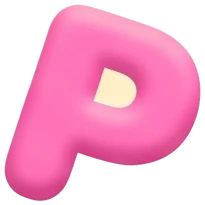
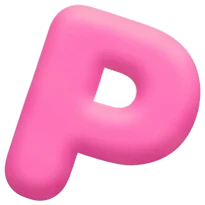
Title letters: cut the A / P counters — the holes kept the mockup's background (cream / sky) and showed over other colours

Changed region(s): [[0.439, 0.322, 0.6732, 0.5268]]

diff --git a/tools/letter_counters.py b/tools/letter_counters.py
@@ -1,0 +1,122 @@
+"""Cut the counters (the enclosed holes of A and P) out of the title letters (user: "인트로에 움직이는 알파벳에 누끼 제대로
+안따져서 배경 컬러 달라지면 표시나. p와 a 알파벳"): the cut left the holes opaque, filled with the mockup's background
+(cream in the P's, sky blue in the A), which showed as soon as a letter flew over another colour.
+
+Per letter: seed = the largest pale component (far from the letter's own colour) that never reaches the sprite's
+transparent outside; hole H = every pixel connected to it that is nearer the hole colour than the letter's. Deep inside
+H → transparent; on its ±1-2 px edge the alpha comes from projecting the pixel onto (nearest letter colour − hole
+colour), and the colour becomes that letter colour (decontaminated). Everything else is left exactly as it was.
+
+  uv run --with pillow --with numpy --with scipy python tools/letter_counters.py           # fix public/art in place
+  uv run --with pillow --with numpy --with scipy python tools/letter_counters.py --sheet x.png --dry   # preview only
+The untouched sprites are kept in design/work/orig/ (copied there on the first run) and are always the input, so a
+re-run never cuts twice. build_art.py's title_pieces() calls fix() on freshly cut letters too."""
+import shutil
+import sys
+from pathlib import Path
+
+import numpy as np
+from PIL import Image
+from scipy import ndimage as ndi
+
+sys.path.insert(0, str(Path(__file__).resolve().parent))
+from matte import bleed, dil, ero  # noqa: E402
+
+ROOT = Path(__file__).resolve().parent.parent
+OUT = ROOT / 'public' / 'art'
+ORIG = ROOT / 'design' / 'work' / 'orig'
+NAMES = ['l_a_blue', 'l_p_top', 'l_p_bot']          # the title letters with a counter (M and T have none)
+
+
+def fix(rgba: np.ndarray, log=print):
+    """rgba uint8 H×W×4 → (fixed rgba uint8, info)"""
+    C = rgba[..., :3].astype(np.float32); a = rgba[..., 3].astype(np.float32) / 255
+    mx, mn = C.max(-1), C.min(-1)
+    sat = (mx - mn) / np.maximum(mx, 1)
+    opaque = a > 0.98
+    outside = ndi.binary_dilation(a < 0.5, iterations=3)            # the transparent surround (+3 px)
+    body = np.logical_and(opaque, ~outside)
+    L = np.median(C[np.logical_and(body, sat > np.percentile(sat[body], 40))], 0)   # the letter's own colour
+    # pale candidates: far from the letter colour
+    dL = np.linalg.norm(C - L, axis=-1)
+    pale = np.logical_and(body, dL > 0.55 * np.percentile(dL[body], 99))
+    lab, k = ndi.label(pale)
+    if not k:
+        return rgba, {'hole': 0}
+    sizes = ndi.sum(pale, lab, range(1, k + 1))
+    seed_id = int(np.argmax(sizes)) + 1
+    seed = lab == seed_id
+    core = ero(seed, 2) if ero(seed, 2).sum() > 20 else seed
+    B = np.median(C[core], 0)                                         # the hole's colour
+    LB = L - B
+    # grow: connected pixels nearer the hole colour than the letter's
+    t_glob = ((C - B) @ LB) / float(LB @ LB)
+    cand = np.logical_and(a > 0.5, t_glob < 0.5)
+    lab2, _ = ndi.label(cand)
+    ids = np.unique(lab2[seed]); ids = ids[ids > 0]
+    H = np.isin(lab2, ids)
+    if np.logical_and(H, outside).any():
+        log('  hole touches the outside — skipped'); return rgba, {'hole': 0}
+    band = np.logical_and(dil(H, 2), ~ero(H, 1))
+    pure = np.logical_and(opaque, ~dil(H, 2))
+    _, (iy, ix) = ndi.distance_transform_edt(~pure, return_indices=True)
+    F = C[iy, ix]                                                     # nearest pure letter colour
+    FB = F - B
+    t = np.clip(((C - B) * FB).sum(-1) / np.maximum((FB * FB).sum(-1), 1e-3), 0, 1)
+    k_ = np.ones_like(a)
+    k_[band] = t[band]
+    k_[ero(H, 1)] = 0
+    a2 = a * k_
+    C2 = C.copy()
+    C2[band] = F[band]
+    C2 = bleed(C2, a2)
+    out = np.dstack([np.clip(C2, 0, 255), np.clip(a2 * 255, 0, 255)]).astype(np.uint8)
+    info = {'hole': int(H.sum()), 'band': int(band.sum()), 'B': [round(float(v)) for v in B], 'L': [round(float(v)) for v in L],
+            'seed': int(seed.sum()), 'components': k}
+    return out, info
+
+
+def fix_file(n, fresh=False, write=True):
+    """public/art/<n>.webp from its untouched copy in design/work/orig/. fresh=True (build_art.py just cut the letter):
+    the new cut becomes that copy first."""
+    ORIG.mkdir(parents=True, exist_ok=True)
+    src = ORIG / f'{n}.webp'
+    if fresh or not src.exists():
+        shutil.copy2(OUT / f'{n}.webp', src)
+    rgba = np.asarray(Image.open(src).convert('RGBA'))
+    fixed, info = fix(rgba)
+    print(n, 'counter cut', info, flush=True)
+    if write and info['hole']:
+        Image.fromarray(fixed, 'RGBA').save(OUT / f'{n}.webp', 'WEBP', quality=90, alpha_quality=100, method=6, exact=True)
+    return rgba, fixed, info
+
+
+def main():
+    dry = '--dry' in sys.argv
+    sheet_path = sys.argv[sys.argv.index('--sheet') + 1] if '--sheet' in sys.argv else None
+    pairs = []
+    for n in NAMES:
+        rgba, fixed, _ = fix_file(n, write=not dry)
+        pairs.append((n, rgba, fixed))
+    if sheet_path:
+        from PIL import ImageDraw
+        Hh = 240; cells = []
+        for n, before, after in pairs:
+            row = []
+            for im in (before, after):
+                for bg in ((255, 0, 255), (30, 30, 80), (120, 200, 120)):
+                    c = Image.new('RGBA', (im.shape[1], im.shape[0]), bg + (255,)); c.alpha_composite(Image.fromarray(im, 'RGBA'))
+                    row.append(c.convert('RGB').resize((round(im.shape[1] * Hh / im.shape[0]), Hh)))
+            cells.append((n, row))
+        W = max(sum(c.width + 6 for c in r) for _, r in cells) + 30
+        sh = Image.new('RGB', (W, len(cells) * (Hh + 30) + 10), 'white'); d = ImageDraw.Draw(sh)
+        for k, (n, r) in enumerate(cells):
+            x = 0; d.text((4, k * (Hh + 30) + 4), f'{n}: before (3) | after (3)', fill='black')
+            for j, c in enumerate(r):
+                if j == 3: x += 24
+                sh.paste(c, (x, k * (Hh + 30) + 22)); x += c.width + 6
+        sh.save(sheet_path); print(sheet_path)
+
+
+if __name__ == '__main__':
+    main()

diff --git a/tools/build_art.py b/tools/build_art.py
@@ -11,6 +11,7 @@ sys.path.insert(0, str(pathlib.Path(__file__).resolve().parent))
 from art_boxes import BOXES  # noqa: E402
 from matte import bleed, clean, dil, ero, gblur, refine, smoothstep, trim_box  # noqa: E402
 from membrane import membrane  # noqa: E402
+from letter_counters import NAMES as COUNTER_LETTERS, fix_file as cut_counter  # noqa: E402
 
 ROOT = pathlib.Path(__file__).resolve().parent.parent
 D = ROOT / 'design'
@@ -120,6 +121,10 @@ def title_pieces():
     sprite('logo', 'logo')
     for n in ('l_m_red', 'l_m_blue', 'l_a_blue', 'l_t_top', 'l_p_top', 'l_t_bot', 'l_p_bot'):
         sprite(n, n)
+    # the A / P holes came out opaque with the mockup's background in them (cream / sky) and showed when the letters
+    # flew over other colours (user: "인트로에 움직이는 알파벳에 누끼 제대로 안따져서 배경 컬러 달라지면 표시나. p와 a 알파벳")
+    for n in COUNTER_LETTERS:
+        cut_counter(n, fresh=True)
     # PLAY: the matte only found the text, so the button is cut as its own stadium shape (orange pill + cream ring)
     T = Image.open(D / 'ref_title.png').convert('RGB')
     x0, y0, x1, y1 = 1029, 876, 1726, 1178
